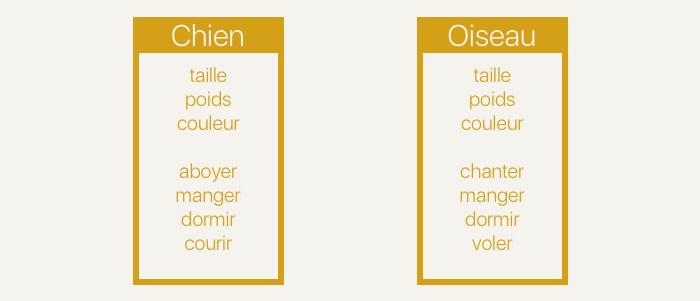
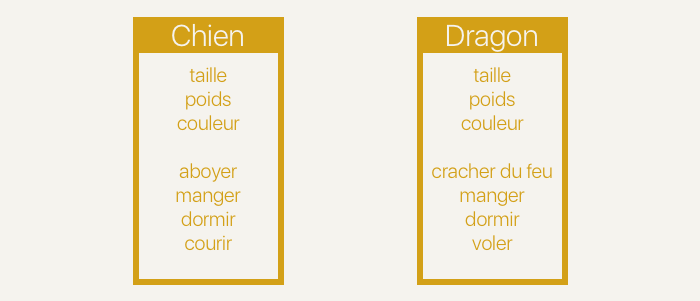
Changed Oiseau to Dragon

Changed region(s): [[0.6, 0.5382, 0.81, 0.598], [0.63, 0.0598, 0.78, 0.1794]]

diff --git a/3. POO/syllabus.md b/3. POO/syllabus.md
@@ -1053,16 +1053,16 @@ Raul et Bob sont évidemment très différents. Essayons de décrire Raul en ori
 
 ![](Images/P3/P3C1_3.png)
 
-Hmmm... Selon notre classification, il semblerait que les classes `Oiseau` et `Chien` ne sont pas si différentes. La plupart de leurs propriétés et methodes sont identiques. Donc par exemple, si on devait écrire l'implémentation des méthodes, on ferait deux fois la même chose. Or un développeur déteste se répéter ! On va donc utiliser l'héritage !
+Hmmm... Selon notre classification, il semblerait que les classes `Dragon` et `Chien` ne sont pas si différentes. La plupart de leurs propriétés et methodes sont identiques. Donc par exemple, si on devait écrire l'implémentation des méthodes, on ferait deux fois la même chose. Or un développeur déteste se répéter ! On va donc utiliser l'héritage !
 
 
 L'héritage permet de créer un arbre de classe. Dans notre exemple, nous avons deux animaux qui partagent des caractéristiques communes. En fait, on aurait pu décrire une classe Animal comme ceci :
 
 ![](Images/P3/P3C1_4.png)
 
-Oui mais le problème, c'est qu'on a été obligé d'enlever certaines méthodes comme `aboyer` ou `voler` car elles ne sont pas valables pour tous les animaux. Il faut que l'on puisse garder nos classes `Chien` et `Oiseau` pour gérer ces spécificités.
+Oui mais le problème, c'est qu'on a été obligé d'enlever certaines méthodes comme `aboyer` ou `voler` car elles ne sont pas valables pour tous les animaux. Il faut que l'on puisse garder nos classes `Chien` et `Dragon` pour gérer ces spécificités.
 
-Alors que fait-on ? Nous allons modifier `Chien` et `Oiseau` pour supprimer tout ce qui est commun et du coup peut être mis dans la classe `Animal`. Et on va dire que les classes `Oiseau` et `Chien` héritent de la classe `Animal`.
+Alors que fait-on ? Nous allons modifier `Chien` et `Dragon` pour supprimer tout ce qui est commun et du coup peut être mis dans la classe `Animal`. Et on va dire que les classes `Dragon` et `Chien` héritent de la classe `Animal`.
 
 ![](Images/P3/P3C1_5.png)
 
@@ -2592,3 +2592,43 @@ Codevolve exercice à faire sur la classe Personne
 - **Le contrôle d'accès permet d'améliorer la lisibilité du code en exprimant son intention concernant un élément du programme.**
 - Un élément ne peux pas avoir un niveau plus permissif que celui qui le contient.
 - Tous les membres d'une classe ont par défaut le niveau de contrôle de la classe dans laquelle ils sont définis.
+
+### En conclusion !
+
+Félicitations ! Vous venez de terminer ce cours sur la programmation orienté objet ! Vous pouvez être fier de vous ! Grâce aux connaissances acquises dans ce cours, vous allez pouvoir désormais attaquer sereinement la programmation d'application iPhone. En effet, si vous en êtes là, c'est que vous avez compris que la programmation orientée objet est au coeur du développement iOS.
+
+Prenons donc un peu le temps de résumer ce que nous avons vu ensemble. Tout d'abord nous avons pris le temps de définir le principe de programmation orientée objet en l'opposant à la programmation procédurale. Nous avons notamment découvert ensemble que l'histoire de l'invention de la programmation orientée objet était intimement liée à l'arrivée des interfaces graphiques de nos ordinateurs.
+
+Au delà de la théorie, nous avons surtout parlé de pratique. Dans ce cours, nous avons appris à utiliser un outil fondamental : les classes. Vous savez maintenant qu'une classe c'est un petit paquet de variables et de fonctions qui forment un tout cohérent. Vous avez également compris que les classes nous permettent de créer nos propre types, ce qui rends notre programme à la fois beaucoup plus clair et beaucoup plus facile à utiliser. On a fait la différence entre une classe qui est un modèle, un moule et les instances qui sont des représentations concrètes de cette classe, les objets que le moule a pour mission de créer.
+
+Si on doit résumer ce que vous savez sur les classes, je pense que cela peut se compter sur les doigts d'une main. Oui en 5 points :
+
+**1. Les propriétés**
+Vous savez que les propriétés sont des variables contenues dans la classe. Il y en a de plusieurs types différents :
+- Les propriétés d'instances qui se rapporte aux instances et les propriétés de classe ou statiques qui se rapportent à la classe.
+- Les propriétés stockées qui sont associées à une valeure et les propriétés calculées qui sont associée à un calcul via les méthodes `get` et `set` ou en lecture seule.
+
+Enfin nous avons vu que les propriétés pouvaient être observées avec `set` pour les propriétés calculées et avec `willSet` et `didSet` pour les propriétés stockées.
+
+**2. Les méthodes**
+Les méthodes sont des fonctions contenues dans la classe. Il y a deux types de méthodes : les méthodes d'instances qui se rapportent aux instances et les méthodes de classe qui se rapportent à la classe.
+
+**3. L'initialisation**
+Vous connaissez la règle d'or de l'initialisation :
+> A la fin de l'initialisation, toutes les propriétés stockées doivent être initialisées
+
+On a vu comment créer nos propres initialiseurs avec le mot-clé `init` ainsi que la différence entre les initialiseurs désignés qui sont les initialiseurs principaux et les initialiseurs pratique qui permettent de faciliter l'initialisation de cas courants.
+
+**4. L'héritage**
+Une classe peut hériter d'une autre. Cela signifie que toutes les propriétés et méthodes de la classe mère sont disponibles dans la classe fille. On a vu comment mettre à profit cette qualité des classes, notamment grâce aux mot-clés `super` et `override` qui nous permettent surchargez des méthodes.
+
+**5. Le contrôle d'accès**
+Enfin, vous savez également limiter l'accès à vos classes selon 4 niveaux de contrôle : public, interne, privé au fichier et privé. C'est l'un des deux objectifs principaux de la POO : cacher une implémentation. Vous allez donc utiliser très souvent le contrôle d'accès et ce d'autant plus que cela va grandement servir la lisibilité de vos classes. Et la clarté du code vous le savez, c'est le plus important !
+
+Voilà les 5 points principaux que nous avons vu à propos de nos classes : les propriétés, les méthodes, l'initialisation, l'héritage et le contrôle d'accès. Et dans ce cours, nous avons même pris le temps de faire deux petits détour pour venir à bout de notre bus scolaire : l'énumération et la vérification des types.
+
+L'énumération est avec les classes et les structures, les trois modèles de donnée nommé de Swift. Autrement dit, ce sont les trois moyens que nous avons en Swift de créer un type ! Vous en maîtrisez donc déjà 2 sur 3. Promis, je vous ne laisserais pas comme ça longtemps. Dans le prochain cours sur Swift, vous saurez tout sur les structures et vous verrez qu'elles sont en fait très proches des classes. Dans ce cours, nous allons créer une application de quiz ! Je vous donne donc rendez-vous pour ce prochain cours sur le développement iOS !
+
+En attendant, il ne me reste plus qu'à vous laisser avec le mot de la fin. Et le mot de la fin évidemment, c'est...
+
+![](Images/P5/P5C1_1.jpg)
